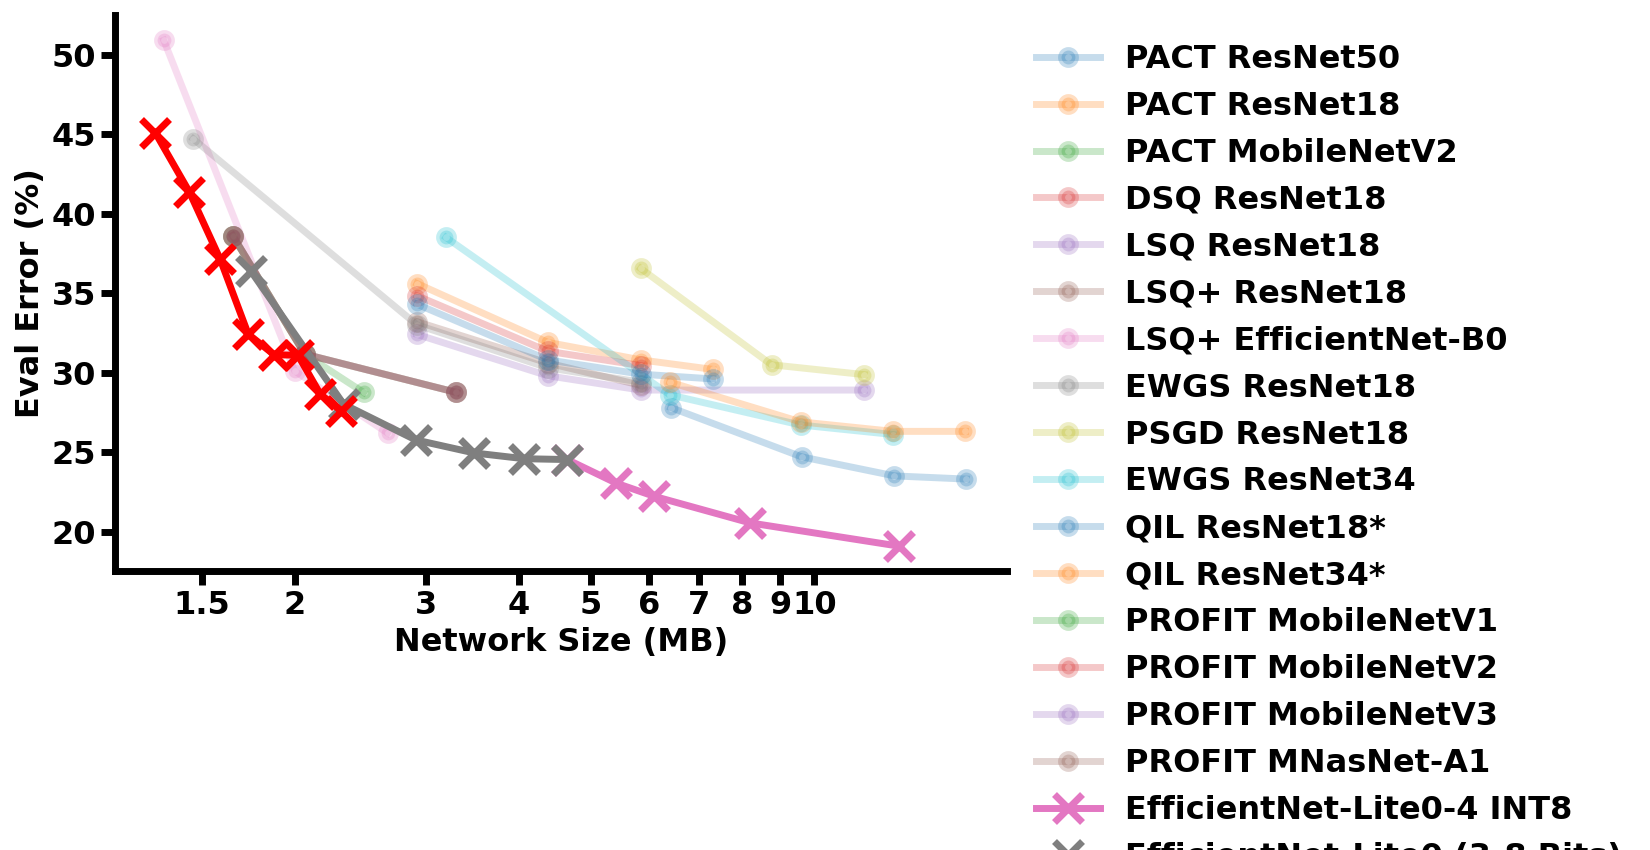
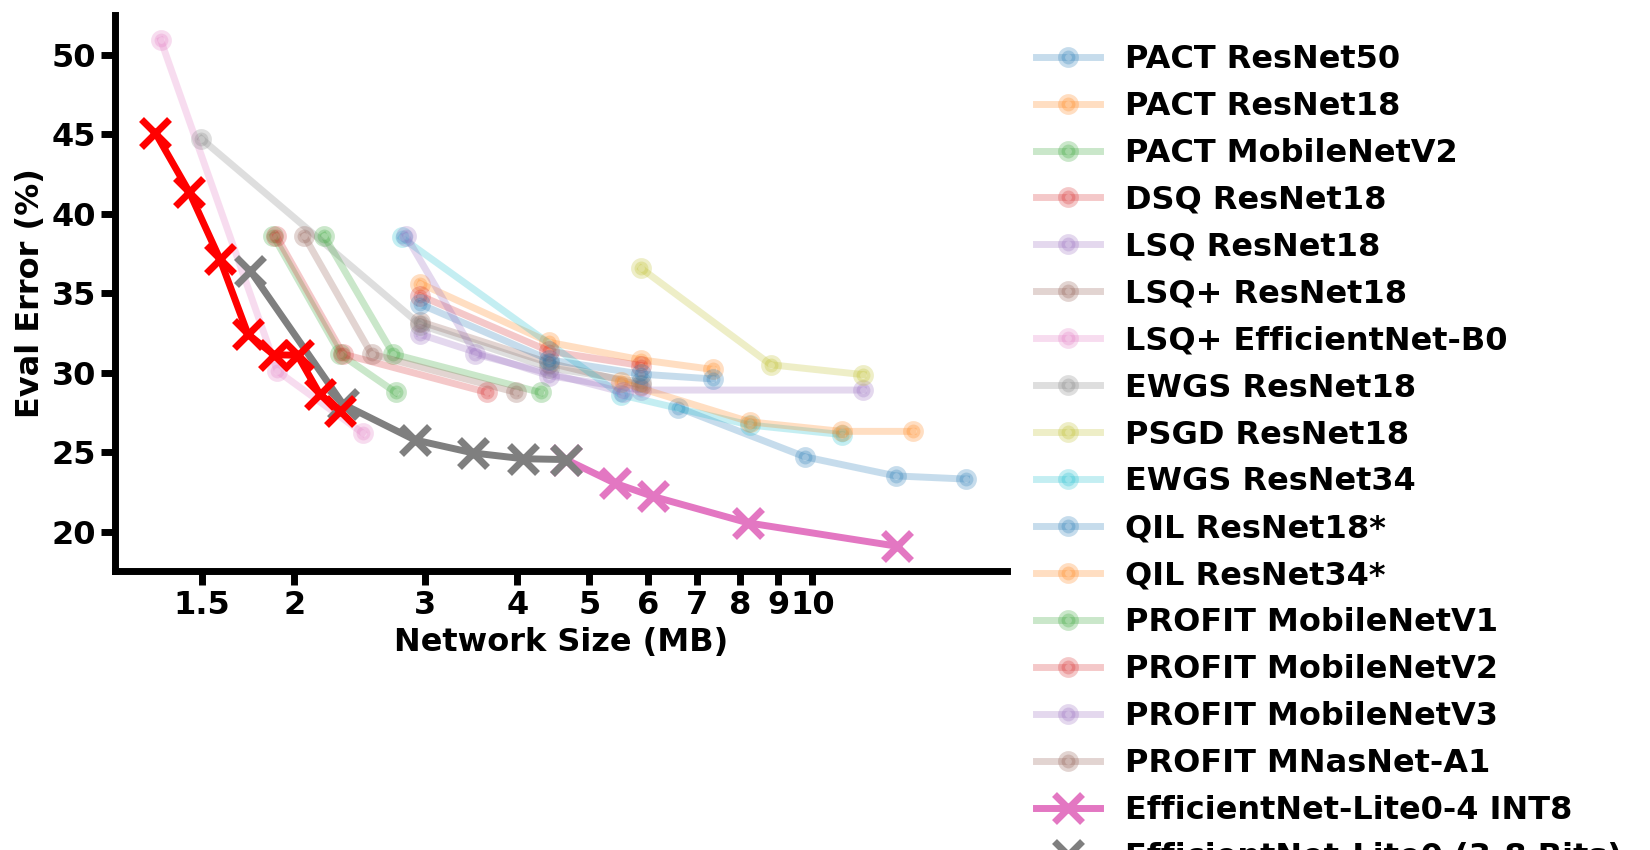
normal - figure update

diff --git a/examples/efficientnet/visualization.py b/examples/efficientnet/visualization.py
@@ -45,7 +45,7 @@ competitors = {
         # https://arxiv.org/pdf/1805.06085.pdf
         'eval_err': np.array([1 - 0.722, 1 - 0.753, 1 - 0.765,
                               1 - 0.767]) * 100,
-        'size_mb': np.array([2, 3, 4, 5]) * 25636712 / 8_000_000,
+        'size_mb': np.array([2, 3, 4, 5]) * 25503912 / 8_000_000 + 0.21248000,
         'name': 'PACT ResNet50',
         'alpha': .25,
         # no first and last layer quant
@@ -54,7 +54,7 @@ competitors = {
         # https://arxiv.org/pdf/1805.06085.pdf
         'eval_err': np.array([1 - 0.644, 1 - 0.681, 1 - 0.692,
                               1 - 0.698]) * 100,
-        'size_mb': np.array([2, 3, 4, 5]) * 11679912 / 8_000_000,
+        'size_mb': np.array([2, 3, 4, 5]) * 11679912 / 8_000_000 + 0.03840000,
         'name': 'PACT ResNet18',
         'alpha': .25,
         # no first and last layer quant
@@ -63,7 +63,7 @@ competitors = {
     'pact_mobilev2': {
         # https://arxiv.org/pdf/1811.08886.pdf
         'eval_err': np.array([1 - 0.6139, 1 - 0.6884, 1 - 0.7125]) * 100,
-        'size_mb': np.array([4, 5, 6]) * 3300000 / 8_000_000,
+        'size_mb': np.array([4, 5, 6]) * 3472041 / 8_000_000 + 0.13644800,
         'name': 'PACT MobileNetV2',
         'alpha': .25,
     },
@@ -71,7 +71,7 @@ competitors = {
     'dsq_resnet18': {
         # https://arxiv.org/abs/1908.05033
         'eval_err': np.array([1 - 0.6517, 1 - 0.6866, 1 - 0.6956]) * 100,
-        'size_mb': np.array([2, 3, 4]) * 11679912 / 8_000_000,
+        'size_mb': np.array([2, 3, 4]) * 11679912 / 8_000_000 + 0.03840000,
         'name': 'DSQ ResNet18',
         'alpha': .25,
     },
@@ -80,7 +80,7 @@ competitors = {
         # https://arxiv.org/abs/1902.08153
         'eval_err': np.array([1 - 0.676, 1 - 0.702, 1 - 0.711,
                               1 - 0.711]) * 100,
-        'size_mb': np.array([2, 3, 4, 8]) * 11679912 / 8_000_000,
+        'size_mb': np.array([2, 3, 4, 8]) * 11679912 / 8_000_000 + 0.03840000,
         'name': 'LSQ ResNet18',
         'alpha': .25,
     },
@@ -88,7 +88,7 @@ competitors = {
     'lsqp_resnet18': {
         # https://arxiv.org/abs/2004.09576
         'eval_err': np.array([1 - 0.668, 1 - 0.694, 1 - 0.708]) * 100,
-        'size_mb': np.array([2, 3, 4]) * 11679912 / 8_000_000,
+        'size_mb': np.array([2, 3, 4]) * 11679912 / 8_000_000 + 0.03840000,
         'name': 'LSQ+ ResNet18',
         'alpha': .25,
     },
@@ -97,7 +97,7 @@ competitors = {
         # https://arxiv.org/abs/2004.09576
         'eval_err': np.array([1 - 0.491, 1 - 0.699, 1 - 0.738]) * 100,
         # number might be incorrect
-        'size_mb': np.array([2, 3, 4]) * 5330571 / 8_000_000,
+        'size_mb': np.array([2, 3, 4]) * 4609992 / 8_000_000 + 0.16806400,
         'name': 'LSQ+ EfficientNet-B0',
         'alpha': .25,
     },
@@ -106,7 +106,7 @@ competitors = {
         # https://arxiv.org/abs/2104.00903
         'eval_err': np.array([1 - 0.553, 1 - 0.67, 1 - 0.697,
                               1 - 0.706]) * 100,
-        'size_mb': np.array([1, 2, 3, 4]) * 11679912 / 8_000_000,
+        'size_mb': np.array([1, 2, 3, 4]) * 11679912 / 8_000_000 + 0.03840000,
         'name': 'EWGS ResNet18',
         'alpha': .25,
     },
@@ -118,7 +118,7 @@ competitors = {
         # 'size_mb': np.array([8, 6, 4]) * 11679912 / 8_000_000,
 
         'eval_err': np.array([1 - 0.6345, 1 - 0.6951, 1 - 0.7013,]) * 100,
-        'size_mb': np.array([4, 6, 8]) * 11679912 / 8_000_000,
+        'size_mb': np.array([4, 6, 8]) * 11679912 / 8_000_000 + 0.03840000,
         'name': 'PSGD ResNet18',
         'alpha': .25,
     },
@@ -127,7 +127,7 @@ competitors = {
         # https://arxiv.org/abs/2104.00903
         'eval_err': np.array([1 - 0.615, 1 - 0.714, 1 - 0.733,
                               1 - 0.739]) * 100,
-        'size_mb': np.array([1, 2, 3, 4]) * 25557032 / 8_000_000,
+        'size_mb': np.array([1, 2, 3, 4]) * 21780648 / 8_000_000 + 0.06809600,
         'name': 'EWGS ResNet34',
         'alpha': .25,
     },
@@ -141,7 +141,7 @@ competitors = {
 
 
         'eval_err': np.array([1 - 0.657,  1 - 0.692, 1 - 0.701, 1 - 0.704,]) * 100,
-        'size_mb': np.array([2, 3, 4, 5]) * 11679912 / 8_000_000,
+        'size_mb': np.array([2, 3, 4, 5]) * 11679912 / 8_000_000 + 0.03840000,
         'name': 'QIL ResNet18*',
         'alpha': .25,
         # no first and last layer quant
@@ -156,7 +156,7 @@ competitors = {
 
 
         'eval_err': np.array([1 - 0.706, 1 - 0.731, 1 - 0.737, 1 - 0.737,]) * 100,
-        'size_mb': np.array([2, 3, 4, 5]) * 25557032 / 8_000_000,
+        'size_mb': np.array([2, 3, 4, 5]) * 21780648 / 8_000_000 + 0.06809600,
         'name': 'QIL ResNet34*',
         'alpha': .25,
         # no first and last layer quant
@@ -169,7 +169,7 @@ competitors = {
 
 
         'eval_err': np.array([1 - 0.6139, 1 - 0.6884, 1 - 0.7125, ]) * 100,
-        'size_mb': np.array([4, 5, 8]) * 3300000 / 8_000_000,
+        'size_mb': np.array([4, 5, 8]) * 4211113 / 8_000_000 + 0.08755200,
         'name': 'PROFIT MobileNetV1',
         'alpha': .25,
     },
@@ -181,7 +181,7 @@ competitors = {
 
 
         'eval_err': np.array([1 - 0.6139, 1 - 0.6884, 1 - 0.7125]) * 100,
-        'size_mb': np.array([4, 5, 8]) * 3300000 / 8_000_000,
+        'size_mb': np.array([4, 5, 8]) * 3506153 / 8_000_000 + 0.13644800,
         'name': 'PROFIT MobileNetV2',
         'alpha': .25,
     },
@@ -193,7 +193,7 @@ competitors = {
 
 
         'eval_err': np.array([1 - 0.6139, 1 - 0.6884, 1 - 0.7125,]) * 100,
-        'size_mb': np.array([4, 5, 8]) * 3300000 / 8_000_000,
+        'size_mb': np.array([4, 5, 8]) * 5459913 / 8_000_000 + 0.09760000,
         'name': 'PROFIT MobileNetV3',
         'alpha': .25,
     },
@@ -205,7 +205,7 @@ competitors = {
 
 
         'eval_err': np.array([1 - 0.6139, 1 - 0.6884,  1 - 0.7125]) * 100,
-        'size_mb': np.array([4, 5, 8]) * 3300000 / 8_000_000,
+        'size_mb': np.array([4, 5, 8]) * 3853550 / 8_000_000 + 0.13395200,
         'name': 'PROFIT MNasNet-A1',
         'alpha': .25,
     },
@@ -214,6 +214,7 @@ competitors = {
 
 competitors_bigger_act = {
     'hawqv2_squeeze': {
+        # activation bits 8 (uniform)
         # https://arxiv.org/abs/1911.03852
         'eval_err': [1 - 0.6838],
         'size_mb': np.array([1.07]),
@@ -231,6 +232,7 @@ competitors_bigger_act = {
     # },
 
     'mixed_resnet18': {
+        # activation budget 380 KB against 
         # https://arxiv.org/abs/1905.11452
         'eval_err': [0.2992],
         'size_mb': np.array([5.4]),
@@ -239,6 +241,7 @@ competitors_bigger_act = {
     },
 
     'mixed_mobilev2': {
+        # activation budget 570 KB against 
         # https://arxiv.org/abs/1905.11452
         'eval_err': [0.3026],
         'size_mb': np.array([1.55]),
@@ -247,6 +250,7 @@ competitors_bigger_act = {
     },
 
     'haq_mobilev2': {
+        # 
         # https://arxiv.org/pdf/1811.08886.pdf
         'eval_err': [1 - 0.6675, 1 - 0.7090, 1 - 0.7147],
         'size_mb': np.array([.95, 1.38, 1.79]),
@@ -255,6 +259,7 @@ competitors_bigger_act = {
     },
 
     'haq_resnet50': {
+        # not sure what weight budget is ...
         # https://arxiv.org/pdf/1811.08886.pdf
         'eval_err': [1 - 0.7063, 1 - 0.7530, 1 - 0.7614],
         'size_mb': np.array([6.30, 9.22, 12.14]),
@@ -592,7 +597,7 @@ def plot_surrogate_mix():
 
   fig, ax = plt.subplots(figsize=(16.5, 11.5))
 
-  ax.axhline(y=65.741000, color='orange', linestyle='--', label = 'STE', linewidth=5)
+
 
   ax.scatter(x / 4, y, marker='x', linewidths=5,
              s=180, color='blue', label='Observations')
@@ -606,6 +611,7 @@ def plot_surrogate_mix():
   ax.scatter(base_x / 4, mu - sigma, marker='_',
              linewidths=5, s=840, color='green')
 
+  ax.axhline(y=65.741000, color='orange', linestyle='--', label = 'STE', linewidth=5)
 
   
   plt.xticks(base_x / 4, names, rotation=45, horizontalalignment='right')
